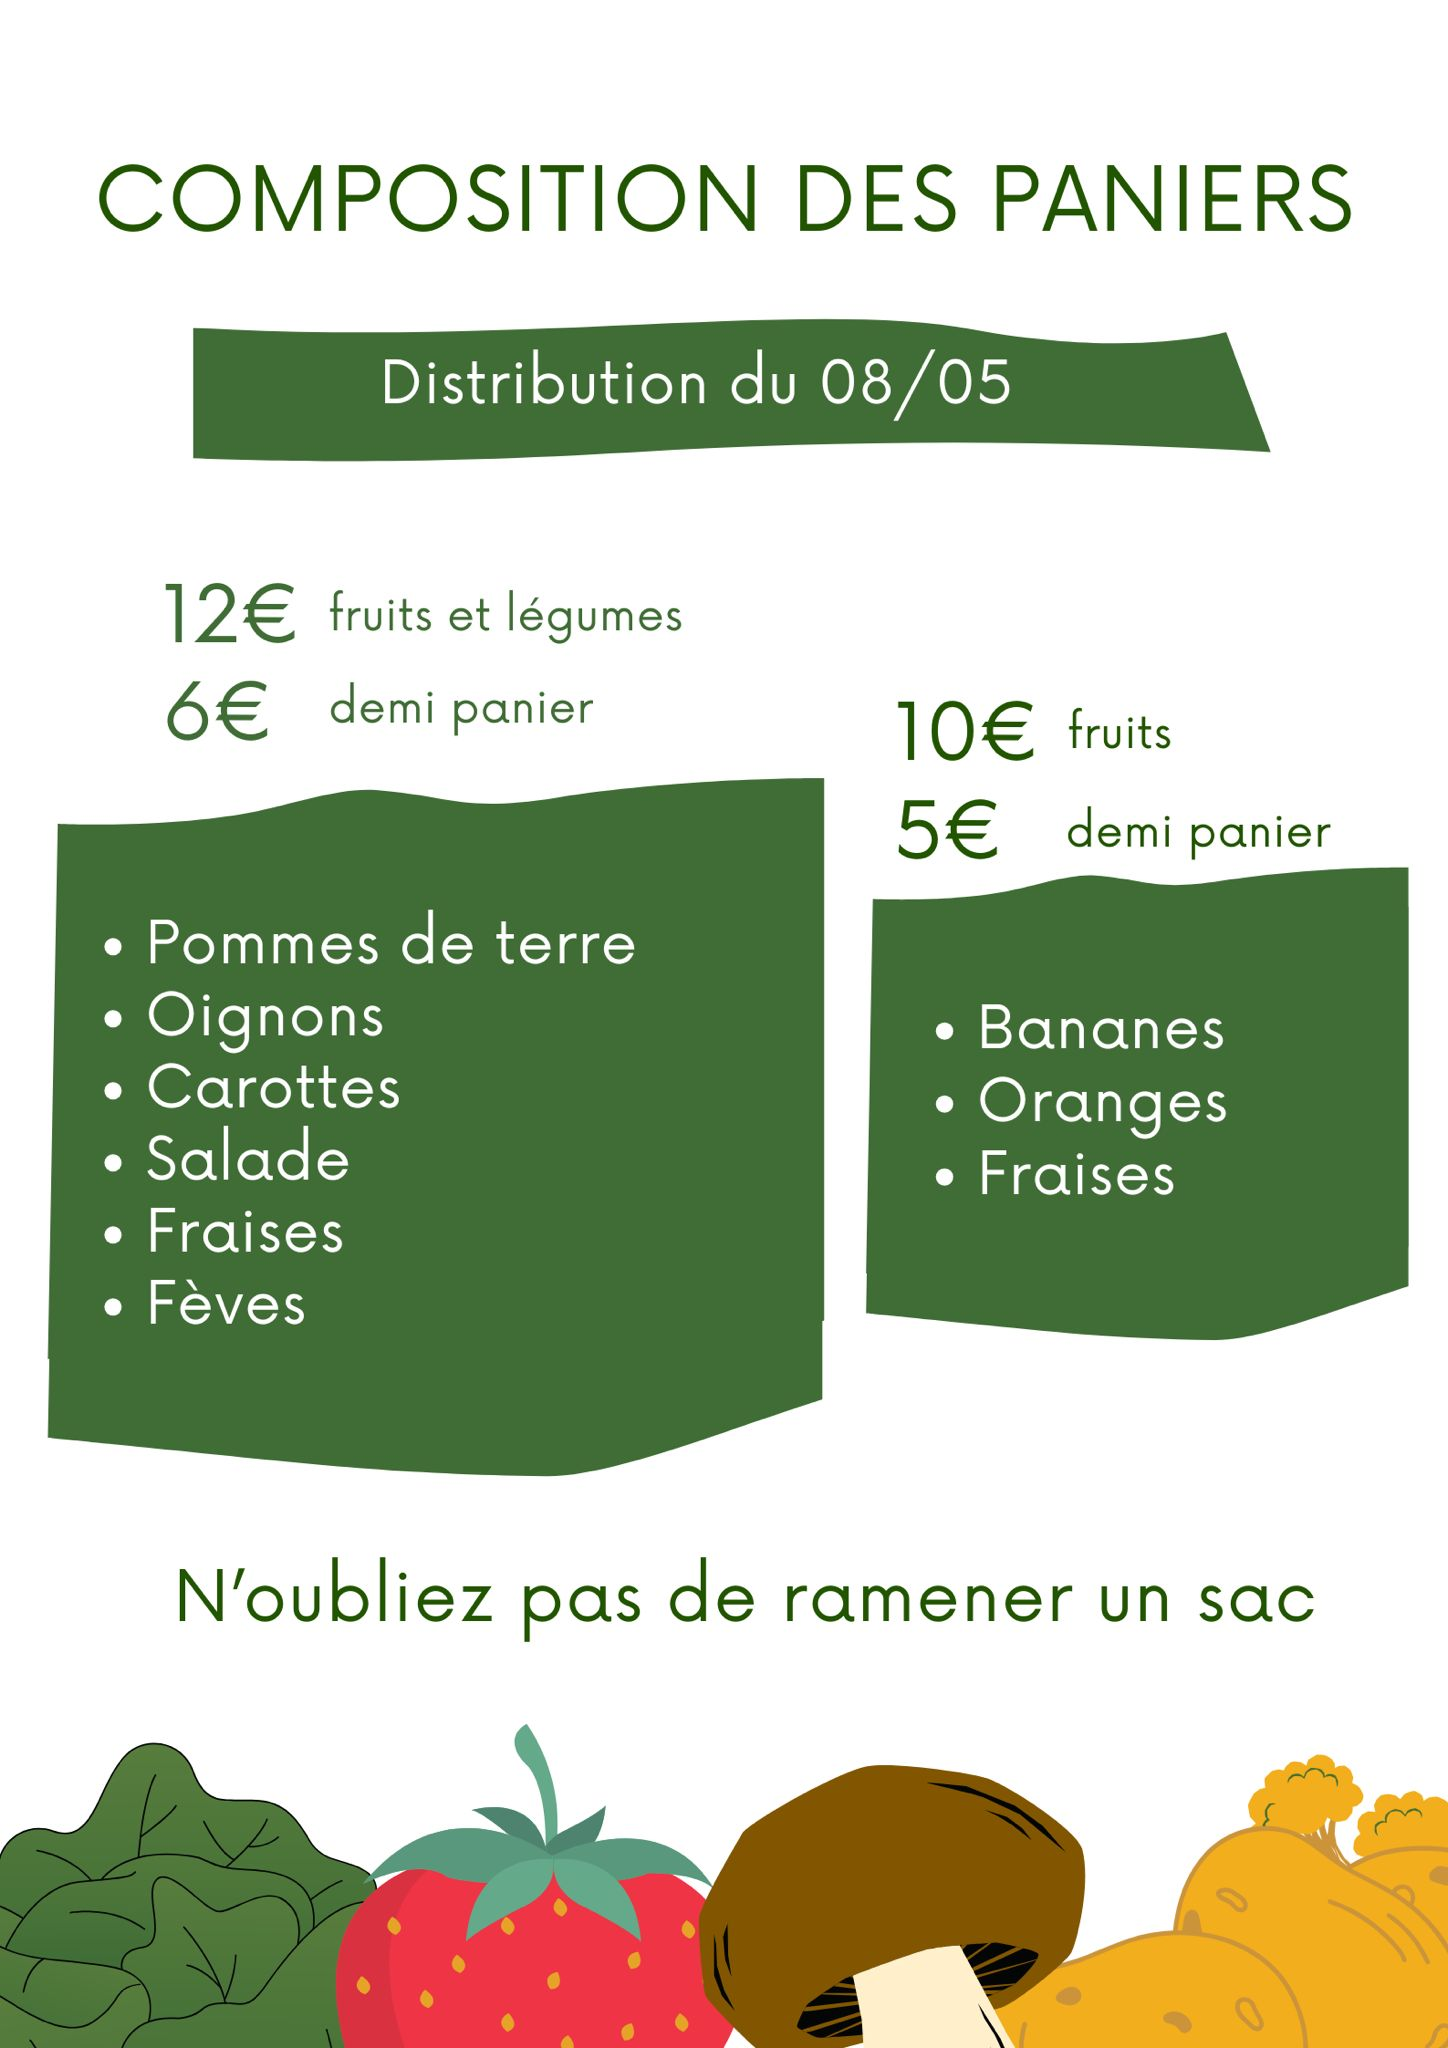
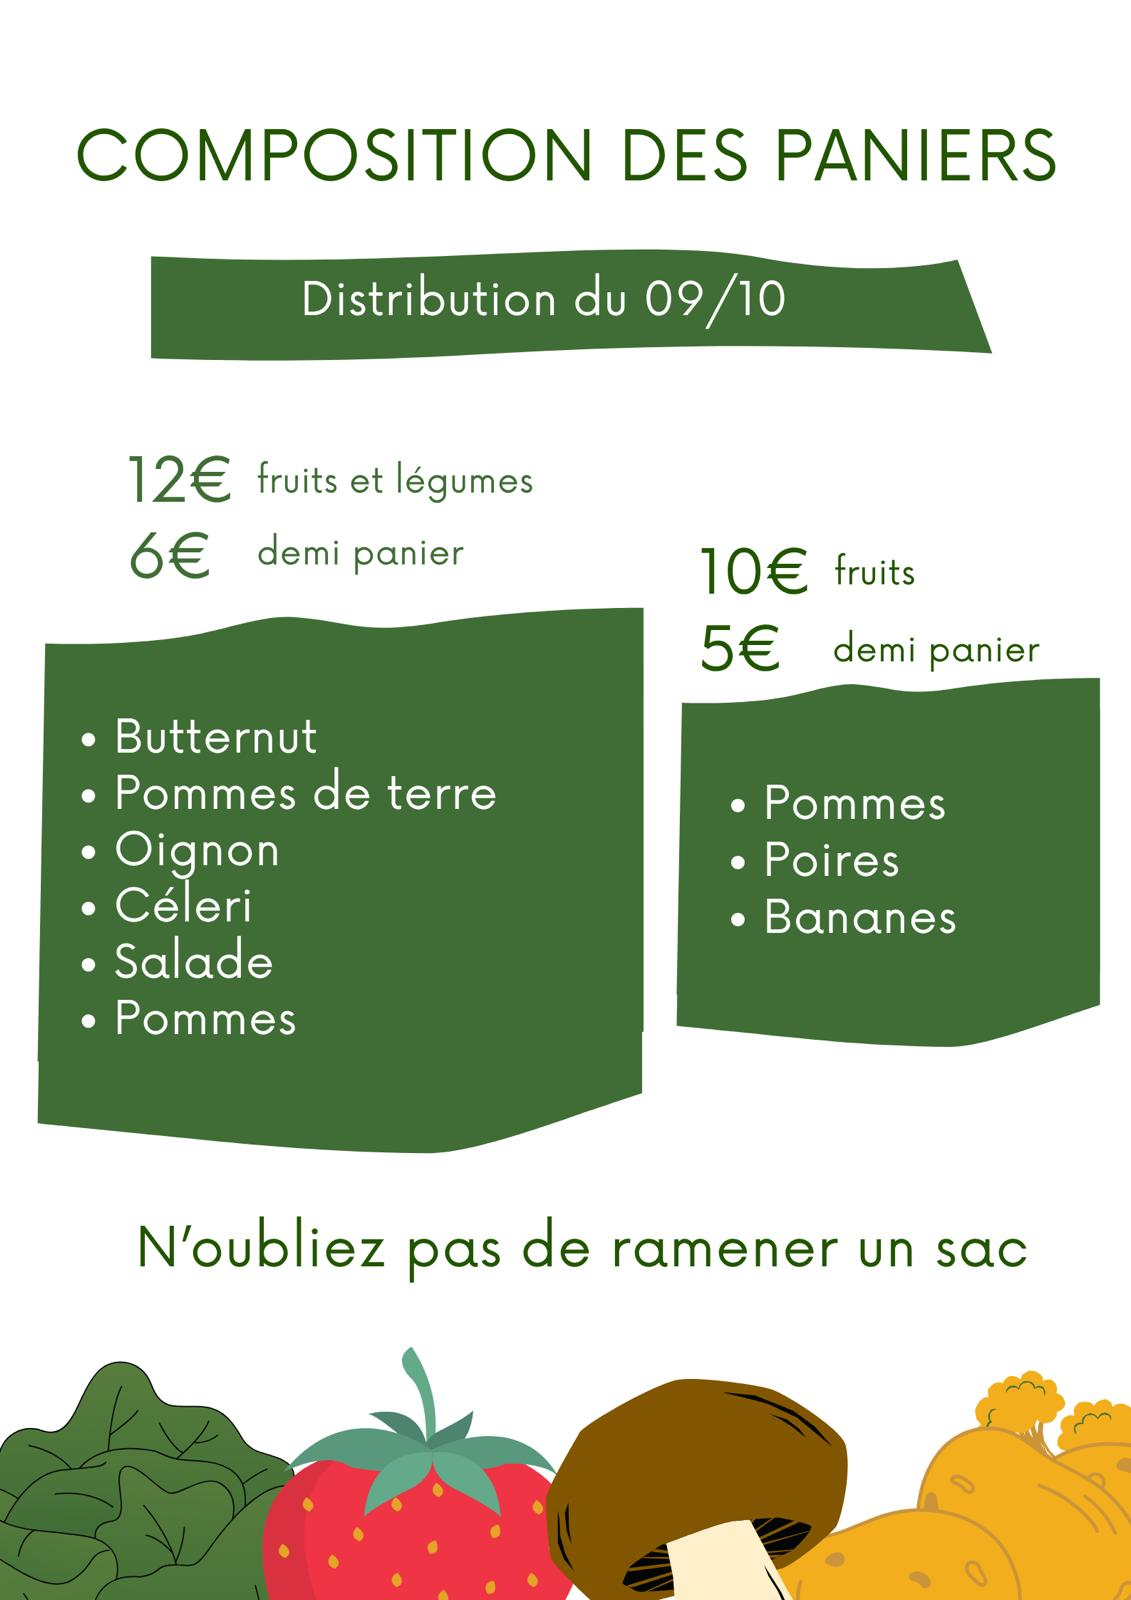
compo 091025

diff --git a/index-en.html b/index-en.html
@@ -70,7 +70,7 @@
                     Thursday at 1 PM at the MDE.</p>
             </div>
         </div>
-        <img src="images/composition-en.jpg" alt="composition" class="img-composition">
+        <img src="images/composition.jpg" alt="composition" class="img-composition">
     </div>
     <footer>
         <div class="pied">
